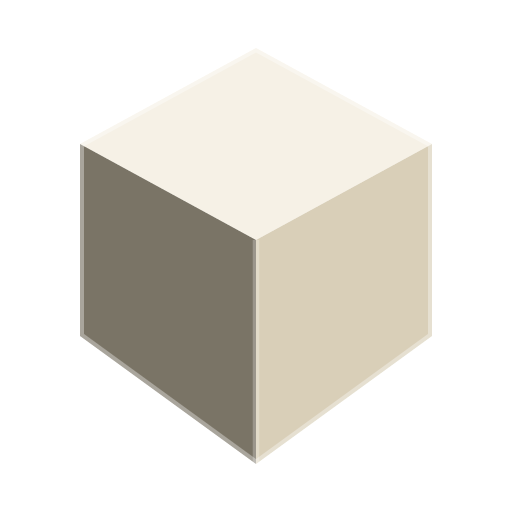
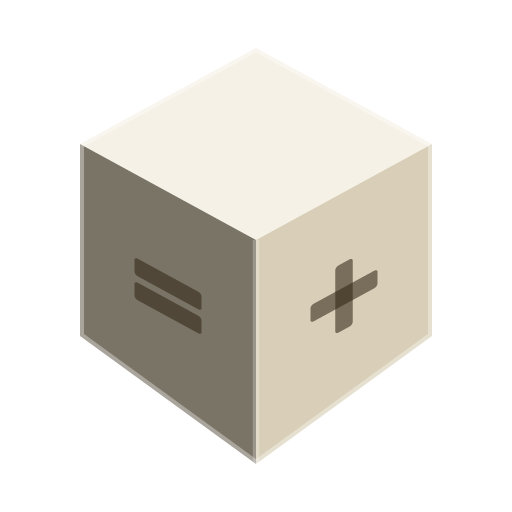
Updates

Changed region(s): [[0.25, 0.5, 0.4062, 0.6562], [0.5938, 0.5, 0.75, 0.6562]]

diff --git a/index.html b/index.html
@@ -5,7 +5,7 @@
     <meta name="viewport" content="width=device-width, initial-scale=1.0, viewport-fit=cover" />
     <title>Calcite</title>
     <link rel="icon" type="image/svg+xml" href="/favicon.svg" />
-    <script type="module" crossorigin src="/assets/index-Cz0ky7b6.js"></script>
+    <script type="module" crossorigin src="/assets/index-FTEhqSLu.js"></script>
     <link rel="stylesheet" crossorigin href="/assets/index-BfEg893o.css">
   <link rel="manifest" href="/manifest.webmanifest"></head>
   <body>

diff --git a/sw.js b/sw.js
@@ -1,1 +1,1 @@
-if(!self.define){let e,s={};const i=(i,n)=>(i=new URL(i+".js",n).href,s[i]||new Promise(s=>{if("document"in self){const e=document.createElement("script");e.src=i,e.onload=s,document.head.appendChild(e)}else e=i,importScripts(i),s()}).then(()=>{let e=s[i];if(!e)throw new Error(`Module ${i} didn’t register its module`);return e}));self.define=(n,a)=>{const r=e||("document"in self?document.currentScript.src:"")||location.href;if(s[r])return;let o={};const c=e=>i(e,r),l={module:{uri:r},exports:o,require:c};s[r]=Promise.all(n.map(e=>l[e]||c(e))).then(e=>(a(...e),o))}}define(["./workbox-a963dd53"],function(e){"use strict";self.addEventListener("message",e=>{e.data&&"SKIP_WAITING"===e.data.type&&self.skipWaiting()}),e.precacheAndRoute([{url:"manifest.webmanifest",revision:"923e8202a5acd358cf222a4ad2b29ba6"},{url:"index.html",revision:"7d518660425435dfa3515877e6c74ef9"},{url:"icon-title.svg",revision:"47a818d091324d0153986e0650a85668"},{url:"icon-512.png",revision:"72e43051b2faca087421b28ecff9d6e1"},{url:"icon-192.png",revision:"0babd70948e3e52a7850adeaa1035eb2"},{url:"favicon.svg",revision:"6feffb41fbae18de6ca4fbb4551cbcae"},{url:"assets/workbox-window.prod.es5-BIl4cyR9.js",revision:null},{url:"assets/numbat_wasm_bg-BTss0vKK.wasm",revision:null},{url:"assets/index-Cz0ky7b6.js",revision:null},{url:"assets/index-BfEg893o.css",revision:null},{url:"favicon.svg",revision:"6feffb41fbae18de6ca4fbb4551cbcae"},{url:"icon-192.png",revision:"0babd70948e3e52a7850adeaa1035eb2"},{url:"icon-512.png",revision:"72e43051b2faca087421b28ecff9d6e1"},{url:"manifest.webmanifest",revision:"923e8202a5acd358cf222a4ad2b29ba6"}],{}),e.cleanupOutdatedCaches(),e.registerRoute(new e.NavigationRoute(e.createHandlerBoundToURL("index.html"))),e.registerRoute(/\/ecb-rates\.xml$/,new e.StaleWhileRevalidate({cacheName:"exchange-rates",plugins:[new e.ExpirationPlugin({maxEntries:1,maxAgeSeconds:86400})]}),"GET")});
+if(!self.define){let e,s={};const i=(i,n)=>(i=new URL(i+".js",n).href,s[i]||new Promise(s=>{if("document"in self){const e=document.createElement("script");e.src=i,e.onload=s,document.head.appendChild(e)}else e=i,importScripts(i),s()}).then(()=>{let e=s[i];if(!e)throw new Error(`Module ${i} didn’t register its module`);return e}));self.define=(n,a)=>{const r=e||("document"in self?document.currentScript.src:"")||location.href;if(s[r])return;let o={};const d=e=>i(e,r),l={module:{uri:r},exports:o,require:d};s[r]=Promise.all(n.map(e=>l[e]||d(e))).then(e=>(a(...e),o))}}define(["./workbox-a963dd53"],function(e){"use strict";self.addEventListener("message",e=>{e.data&&"SKIP_WAITING"===e.data.type&&self.skipWaiting()}),e.precacheAndRoute([{url:"manifest.webmanifest",revision:"923e8202a5acd358cf222a4ad2b29ba6"},{url:"index.html",revision:"919e8fabeebcd6a15952daa0a18de1a7"},{url:"icon-title.svg",revision:"f510cce1887daf848632e0fa5e28ab84"},{url:"icon-512.png",revision:"8ebfe1bc19f6dab9a0e97d084778a2a0"},{url:"icon-192.png",revision:"944d07edf5395dda48ca8e70fa5a7361"},{url:"favicon.svg",revision:"94218add8ce3b22b4bb6978533d07f99"},{url:"assets/workbox-window.prod.es5-BIl4cyR9.js",revision:null},{url:"assets/numbat_wasm_bg-BTss0vKK.wasm",revision:null},{url:"assets/index-FTEhqSLu.js",revision:null},{url:"assets/index-BfEg893o.css",revision:null},{url:"favicon.svg",revision:"94218add8ce3b22b4bb6978533d07f99"},{url:"icon-192.png",revision:"944d07edf5395dda48ca8e70fa5a7361"},{url:"icon-512.png",revision:"8ebfe1bc19f6dab9a0e97d084778a2a0"},{url:"manifest.webmanifest",revision:"923e8202a5acd358cf222a4ad2b29ba6"}],{}),e.cleanupOutdatedCaches(),e.registerRoute(new e.NavigationRoute(e.createHandlerBoundToURL("index.html"))),e.registerRoute(/\/ecb-rates\.xml$/,new e.StaleWhileRevalidate({cacheName:"exchange-rates",plugins:[new e.ExpirationPlugin({maxEntries:1,maxAgeSeconds:86400})]}),"GET")});